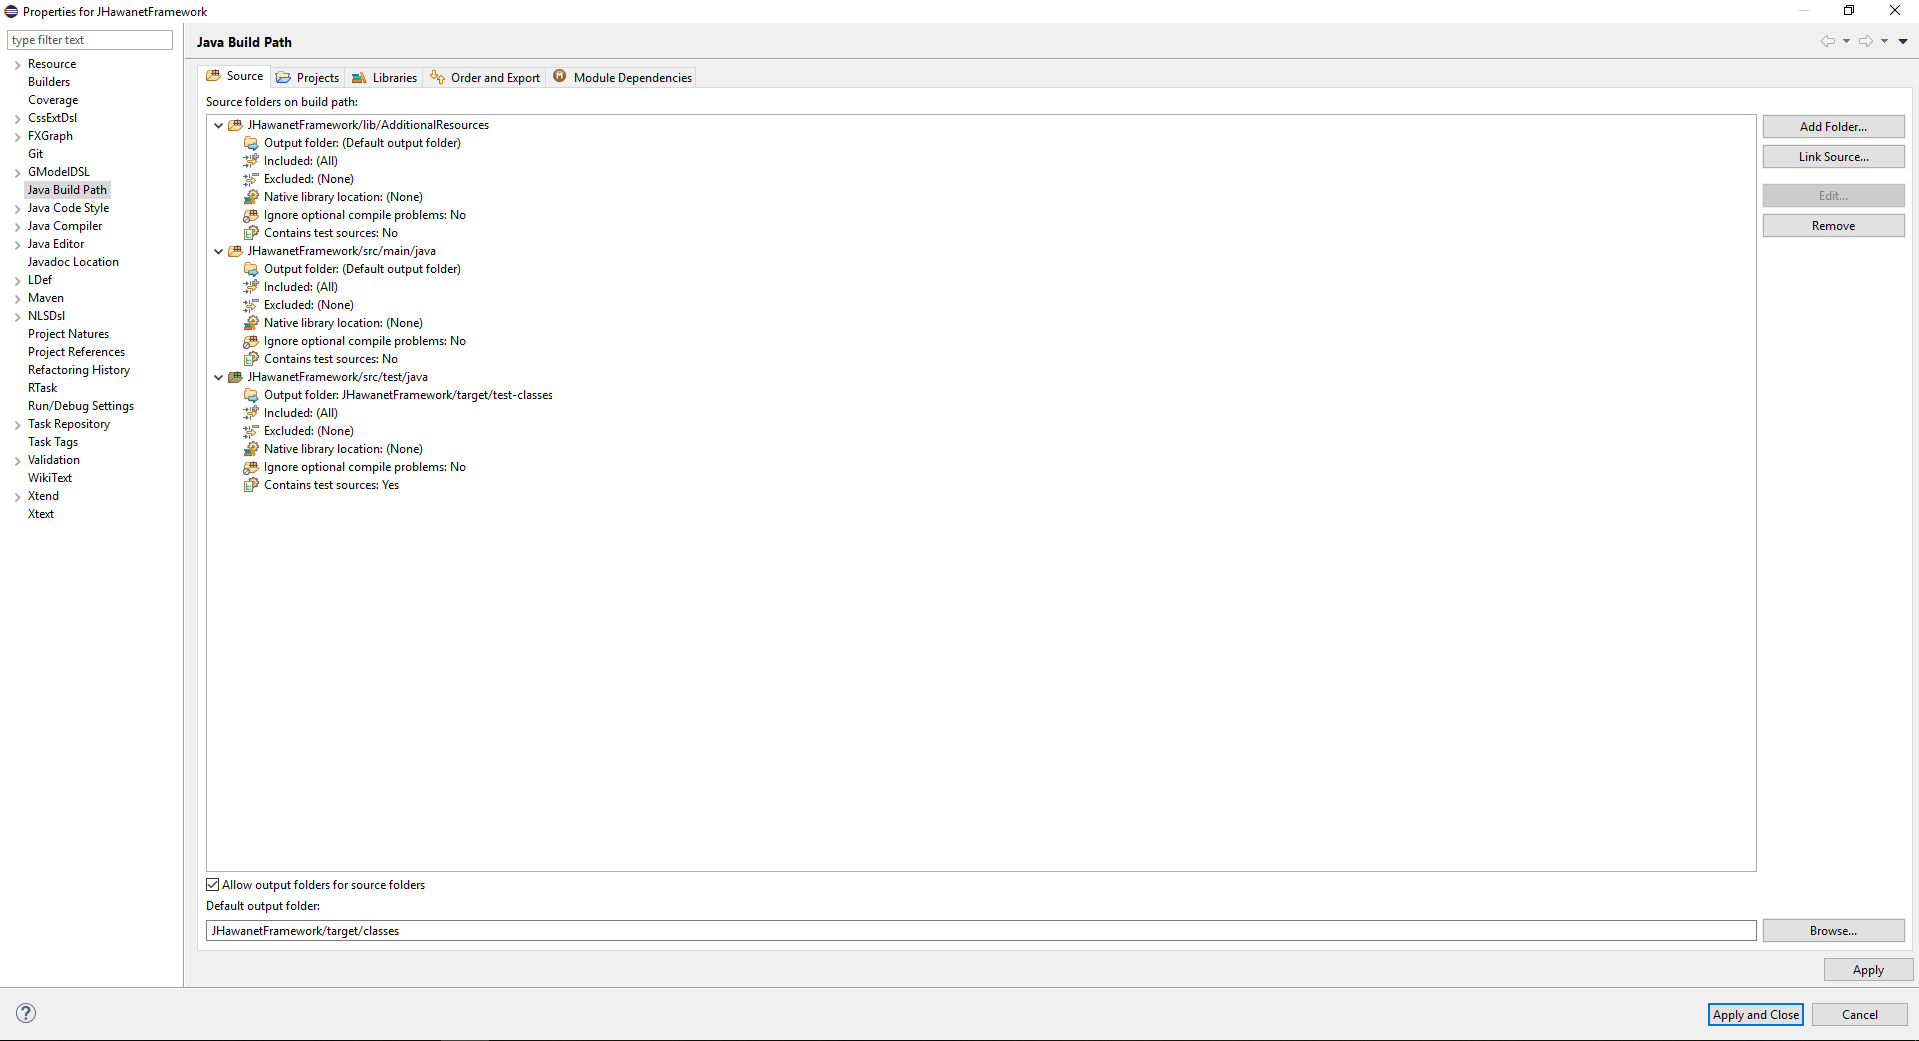
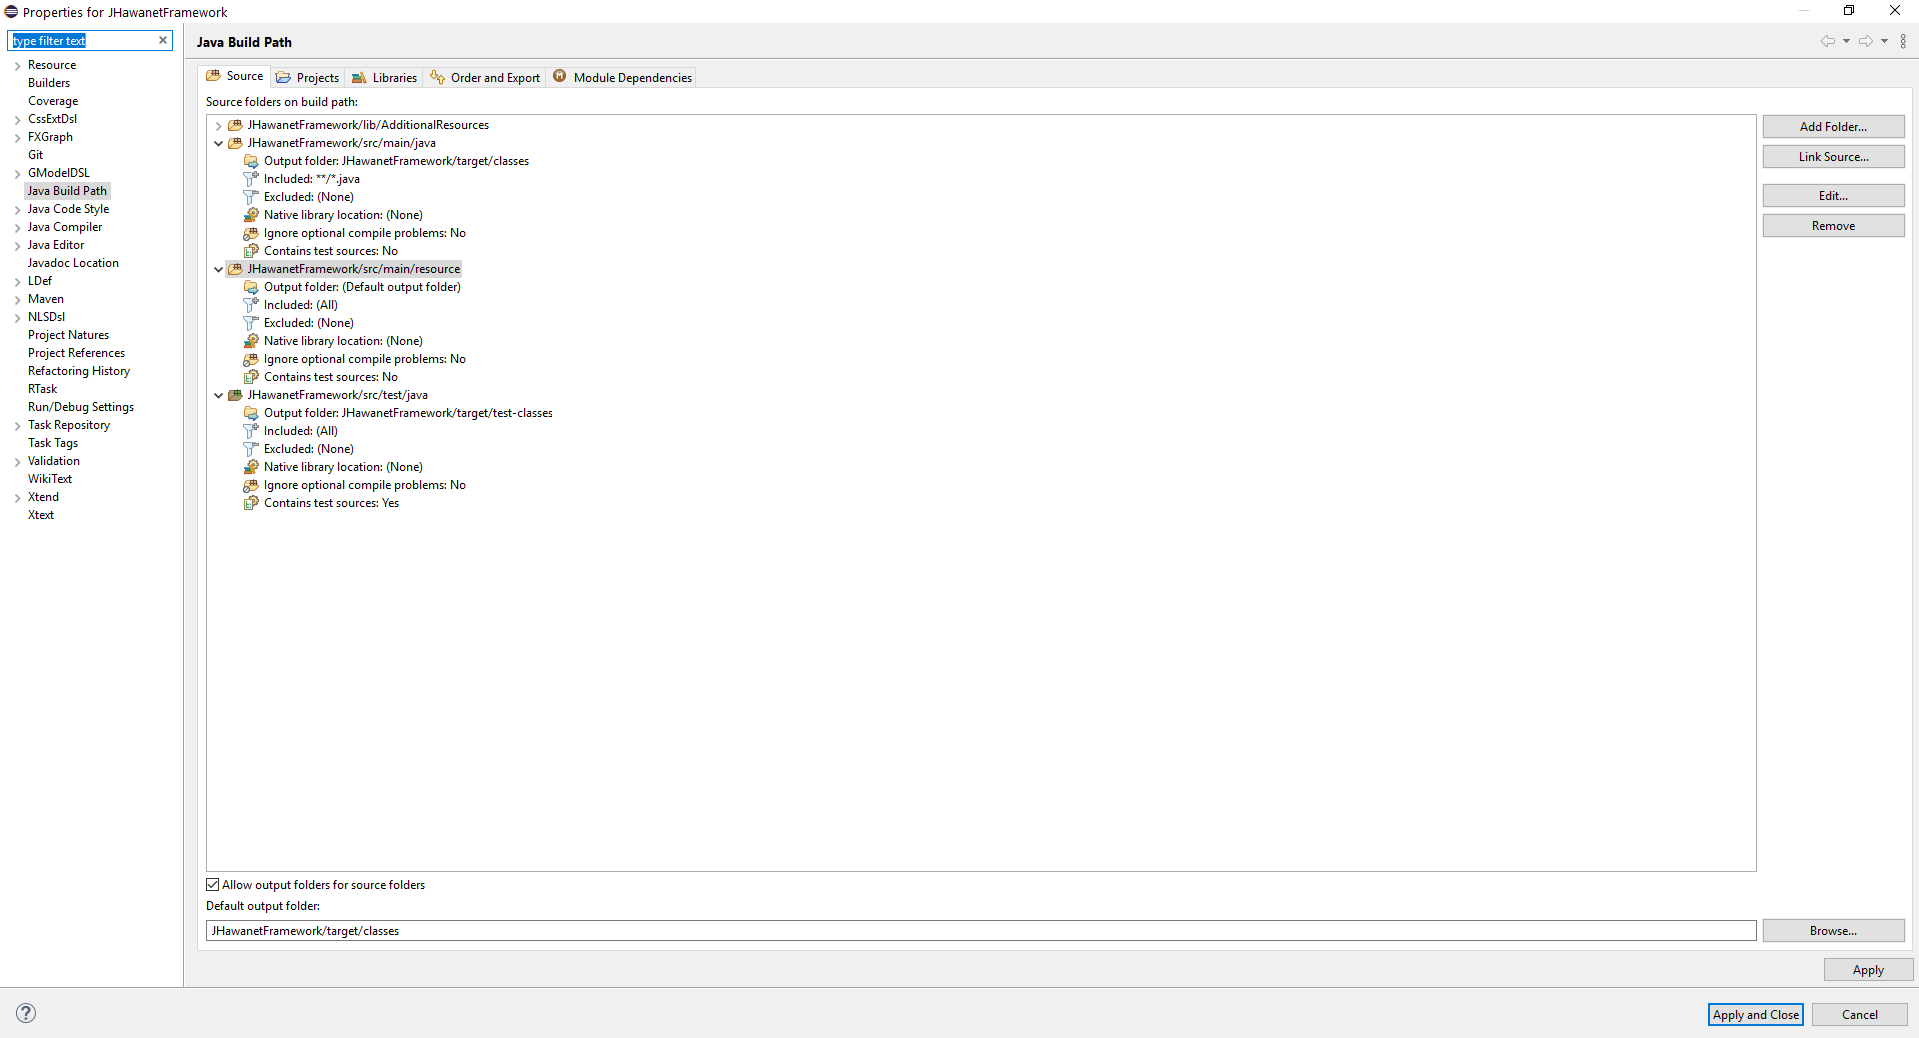
Add instruction to Readme to open proyect in intelliJ

diff --git a/README.md b/README.md
@@ -30,14 +30,34 @@ Compile with mvn jfx:jar to create a jar -> este comando realizaria lo mismo que
 Compile with mvn jfx:native to create a native -> genera un exe y si estan instalados los programas correctos tambien generaria un instalador.
 
 ## Abrir proyecto con eclipse
-Abrir el proyecto desde eclipse y agregar la ruta lib/additionalResources al *build path*. Para ello, seleccione la carpeta y muestre el menú contextual. Luego, en la opción *Build path* seleccione la opción *Use as source folder* (Puede configurarlo tambien desde *Configure build path*). Esto se muestra en la imagen a continuación:
+Abrir el proyecto desde eclipse y agregar la ruta lib/additionalResources y la carpeta src/resource, en caso de que no se encuentre, al *build path*. Para ello, seleccione la carpeta y muestre el menú contextual. Luego, en la opción *Build path* seleccione la opción *Use as source folder* (Puede configurarlo tambien desde *Configure build path*). Esto se muestra en la imagen a continuación:
 
-![addPath](assets/addPath.png)
+![Agregar path](assets/addPath.png)
 
 El *build path* deberia mostrarse de la siguiente manera:
 
-![BuildPath](assets/BuildPath.png)
+![Build path](assets/BuildPath.png)
 
+## Abrir Proyecto en IntelliJ
+Abrir o exportar la carpeta del proyecto en IntelliJ. Para esto hay dos formas de hacerlo. La primera consiste en hacerlo desde la ventana de bienvenida usando la opción *Open or import*:
+![Ventana de bienvenida](assets/WelcomeViewIJ.png)
+
+o desde un proyecto ya abierto ir a File > Open:
+![Open](assets/IntelliJOpen.png)
+
+Una vez abierto el proyecto hay revisar si las carpetas estan correctamente configuradas. Para ello es necesario agregar la carpeta lib/additionalResources y la carpeta src/resource en la configuración de la estructura en proyecto en caso de que no esten. Para configurar la estructura del proyecto ve a File > Proyect Structure:
+
+![Menu estructura del proyecto](assets/ProyectStructureMenu.png)
+
+y en configuración de modulos revisa que este de la siguiente manera:
+
+![Estructura del proyecto](assets/ProyectStructure.png)
+
+en caso de que no se encuentre la configuración de la manera indicada busca la carpeta deseada y seleccionala. Luego, has click sobre el boton *Resources*
+
+![Estructura del proyecto](assets/ProyectStructureAddResource.png)
+
+con esto el proyecto estara listo para ser usado en IntelliJ. La ventaja de usar IntelliJ es que este posee un analizador de codigo que en mi opinión es bastante util y permite detectar el uso de algunas anotaciones extras para verificar el codigo como @NotNull y @Nullable. En caso de que el proyecto sea abierto usando eclipse estas anotaciones no tienen uso pero no causaran problemas en la compilación del proyecto.
 
 ### Nota1: Assets es solo una carpeta donde se suben las imagenes. No es usada por el proyecto.
 ### Nota2: La version en ingles y la version en español de epanet a veces ocupan distintas palabras claves (Ej: Feet en ingles y Pies en español). Este programa lee el formato inp de la version en ingles.
